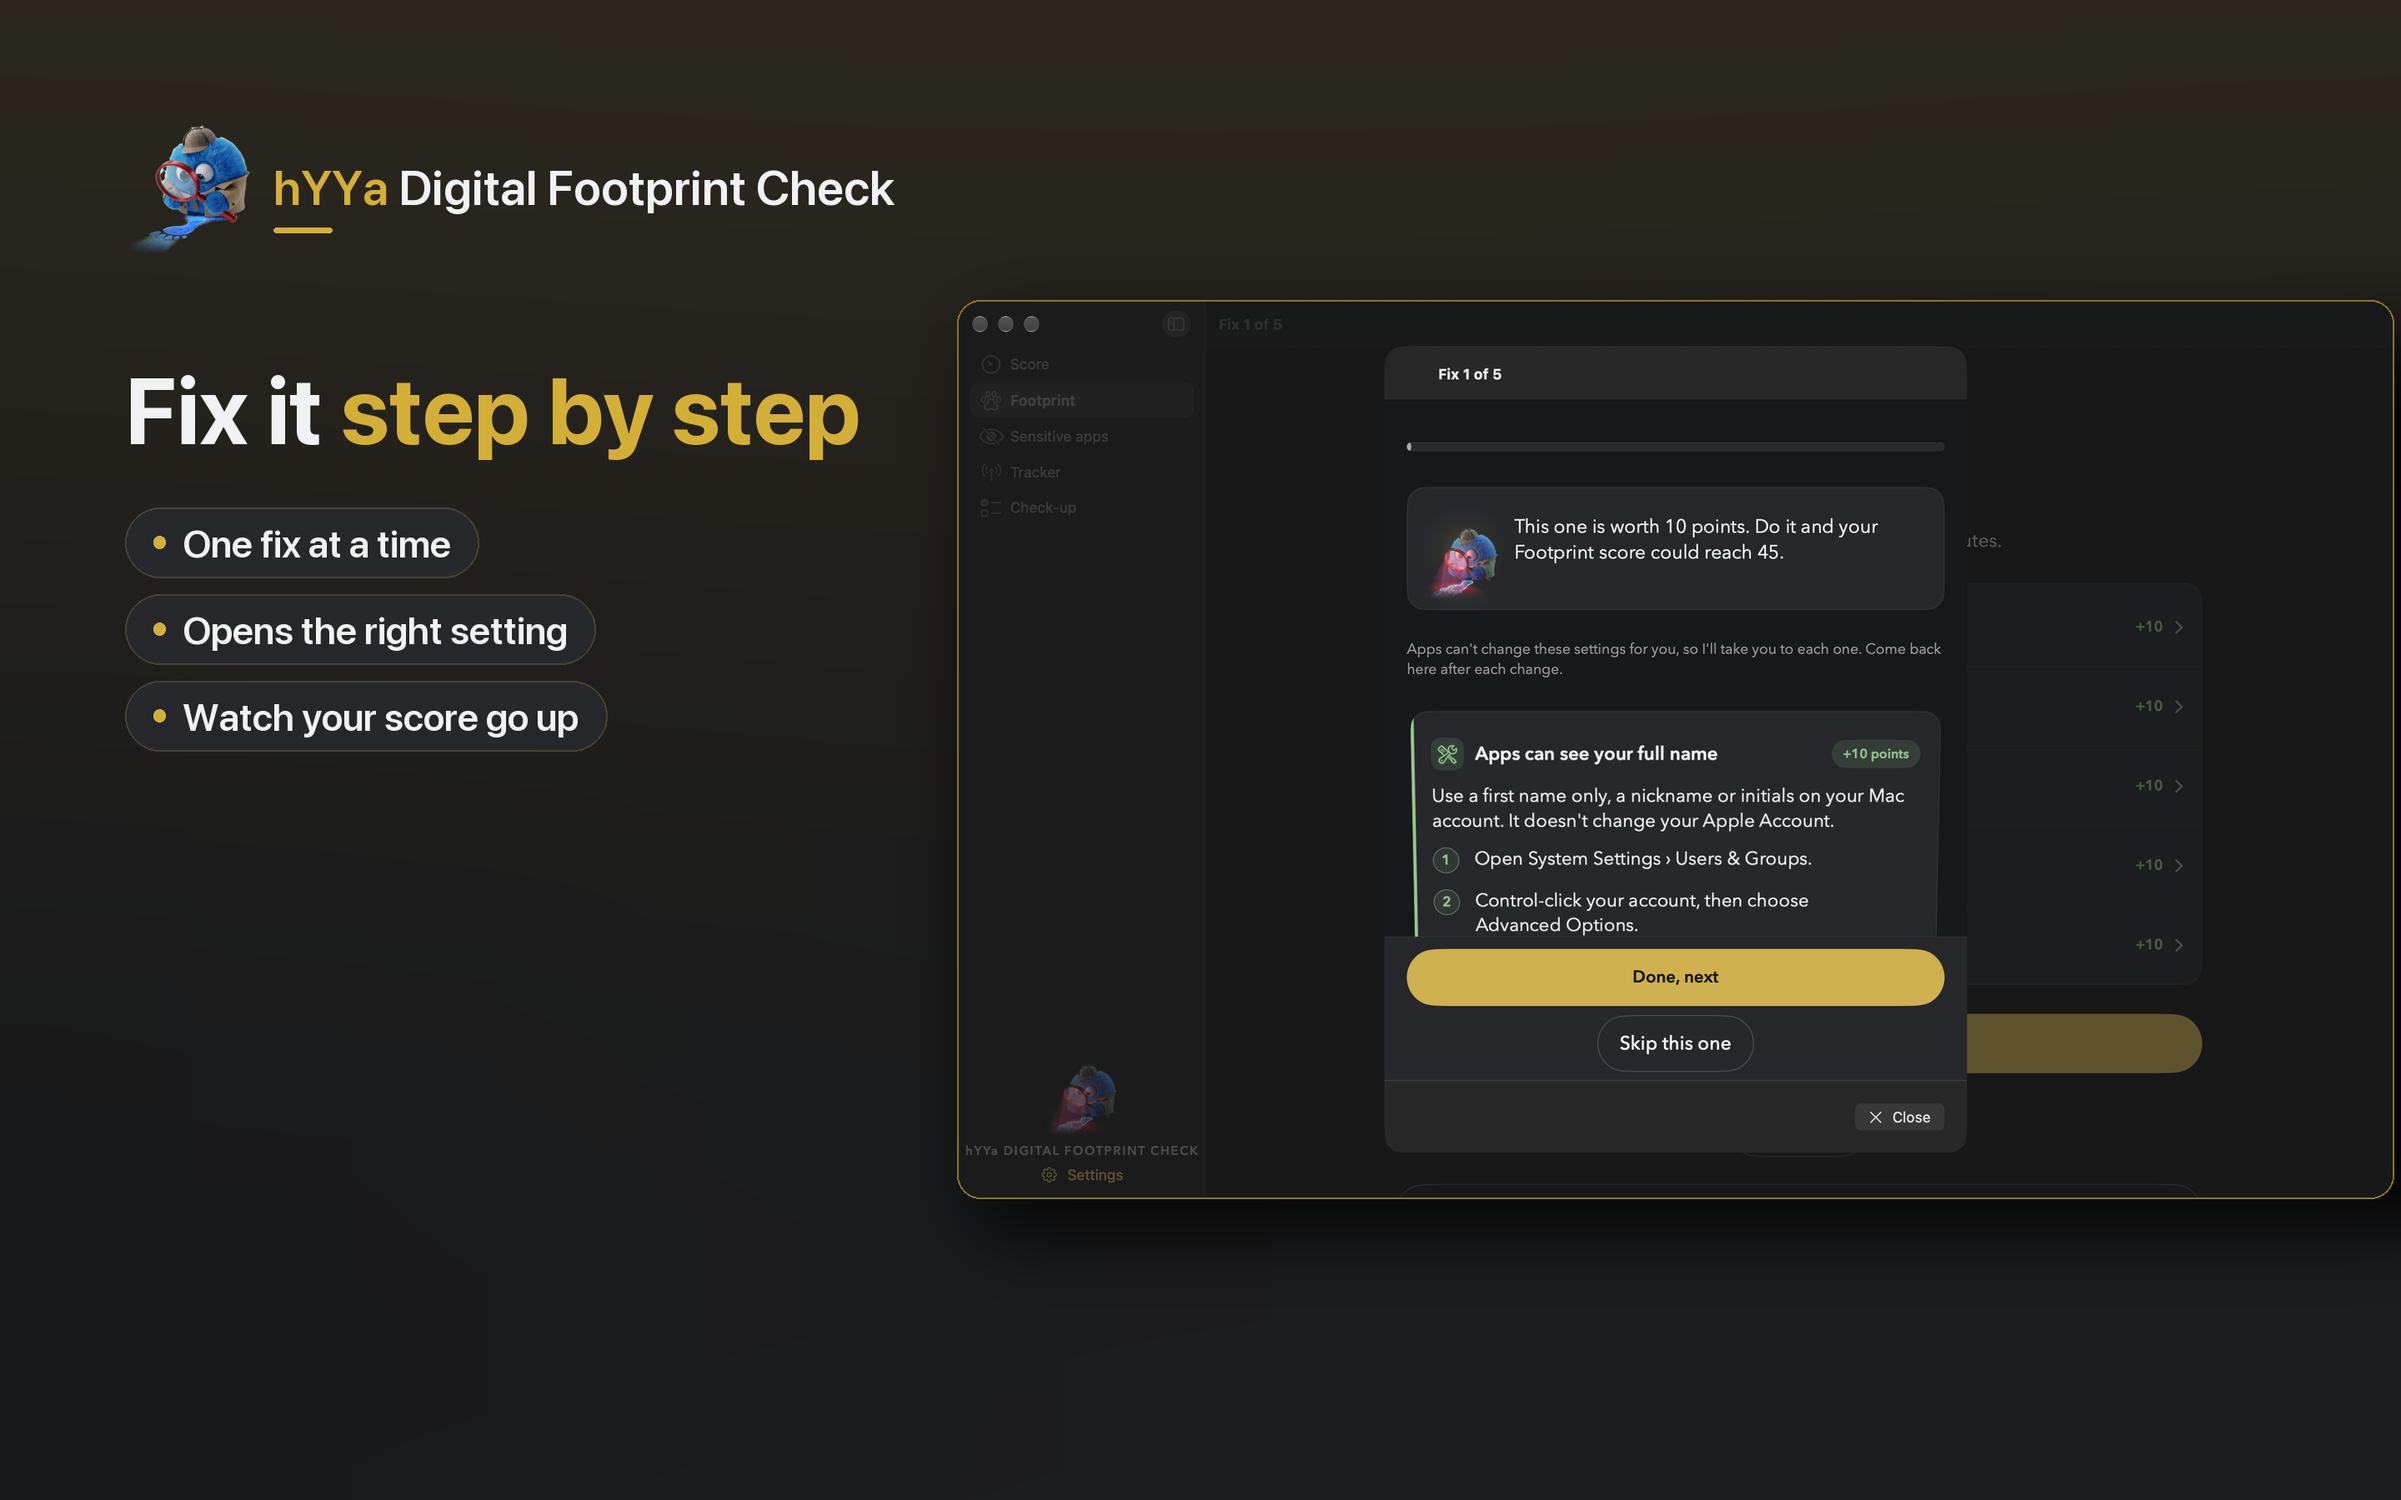
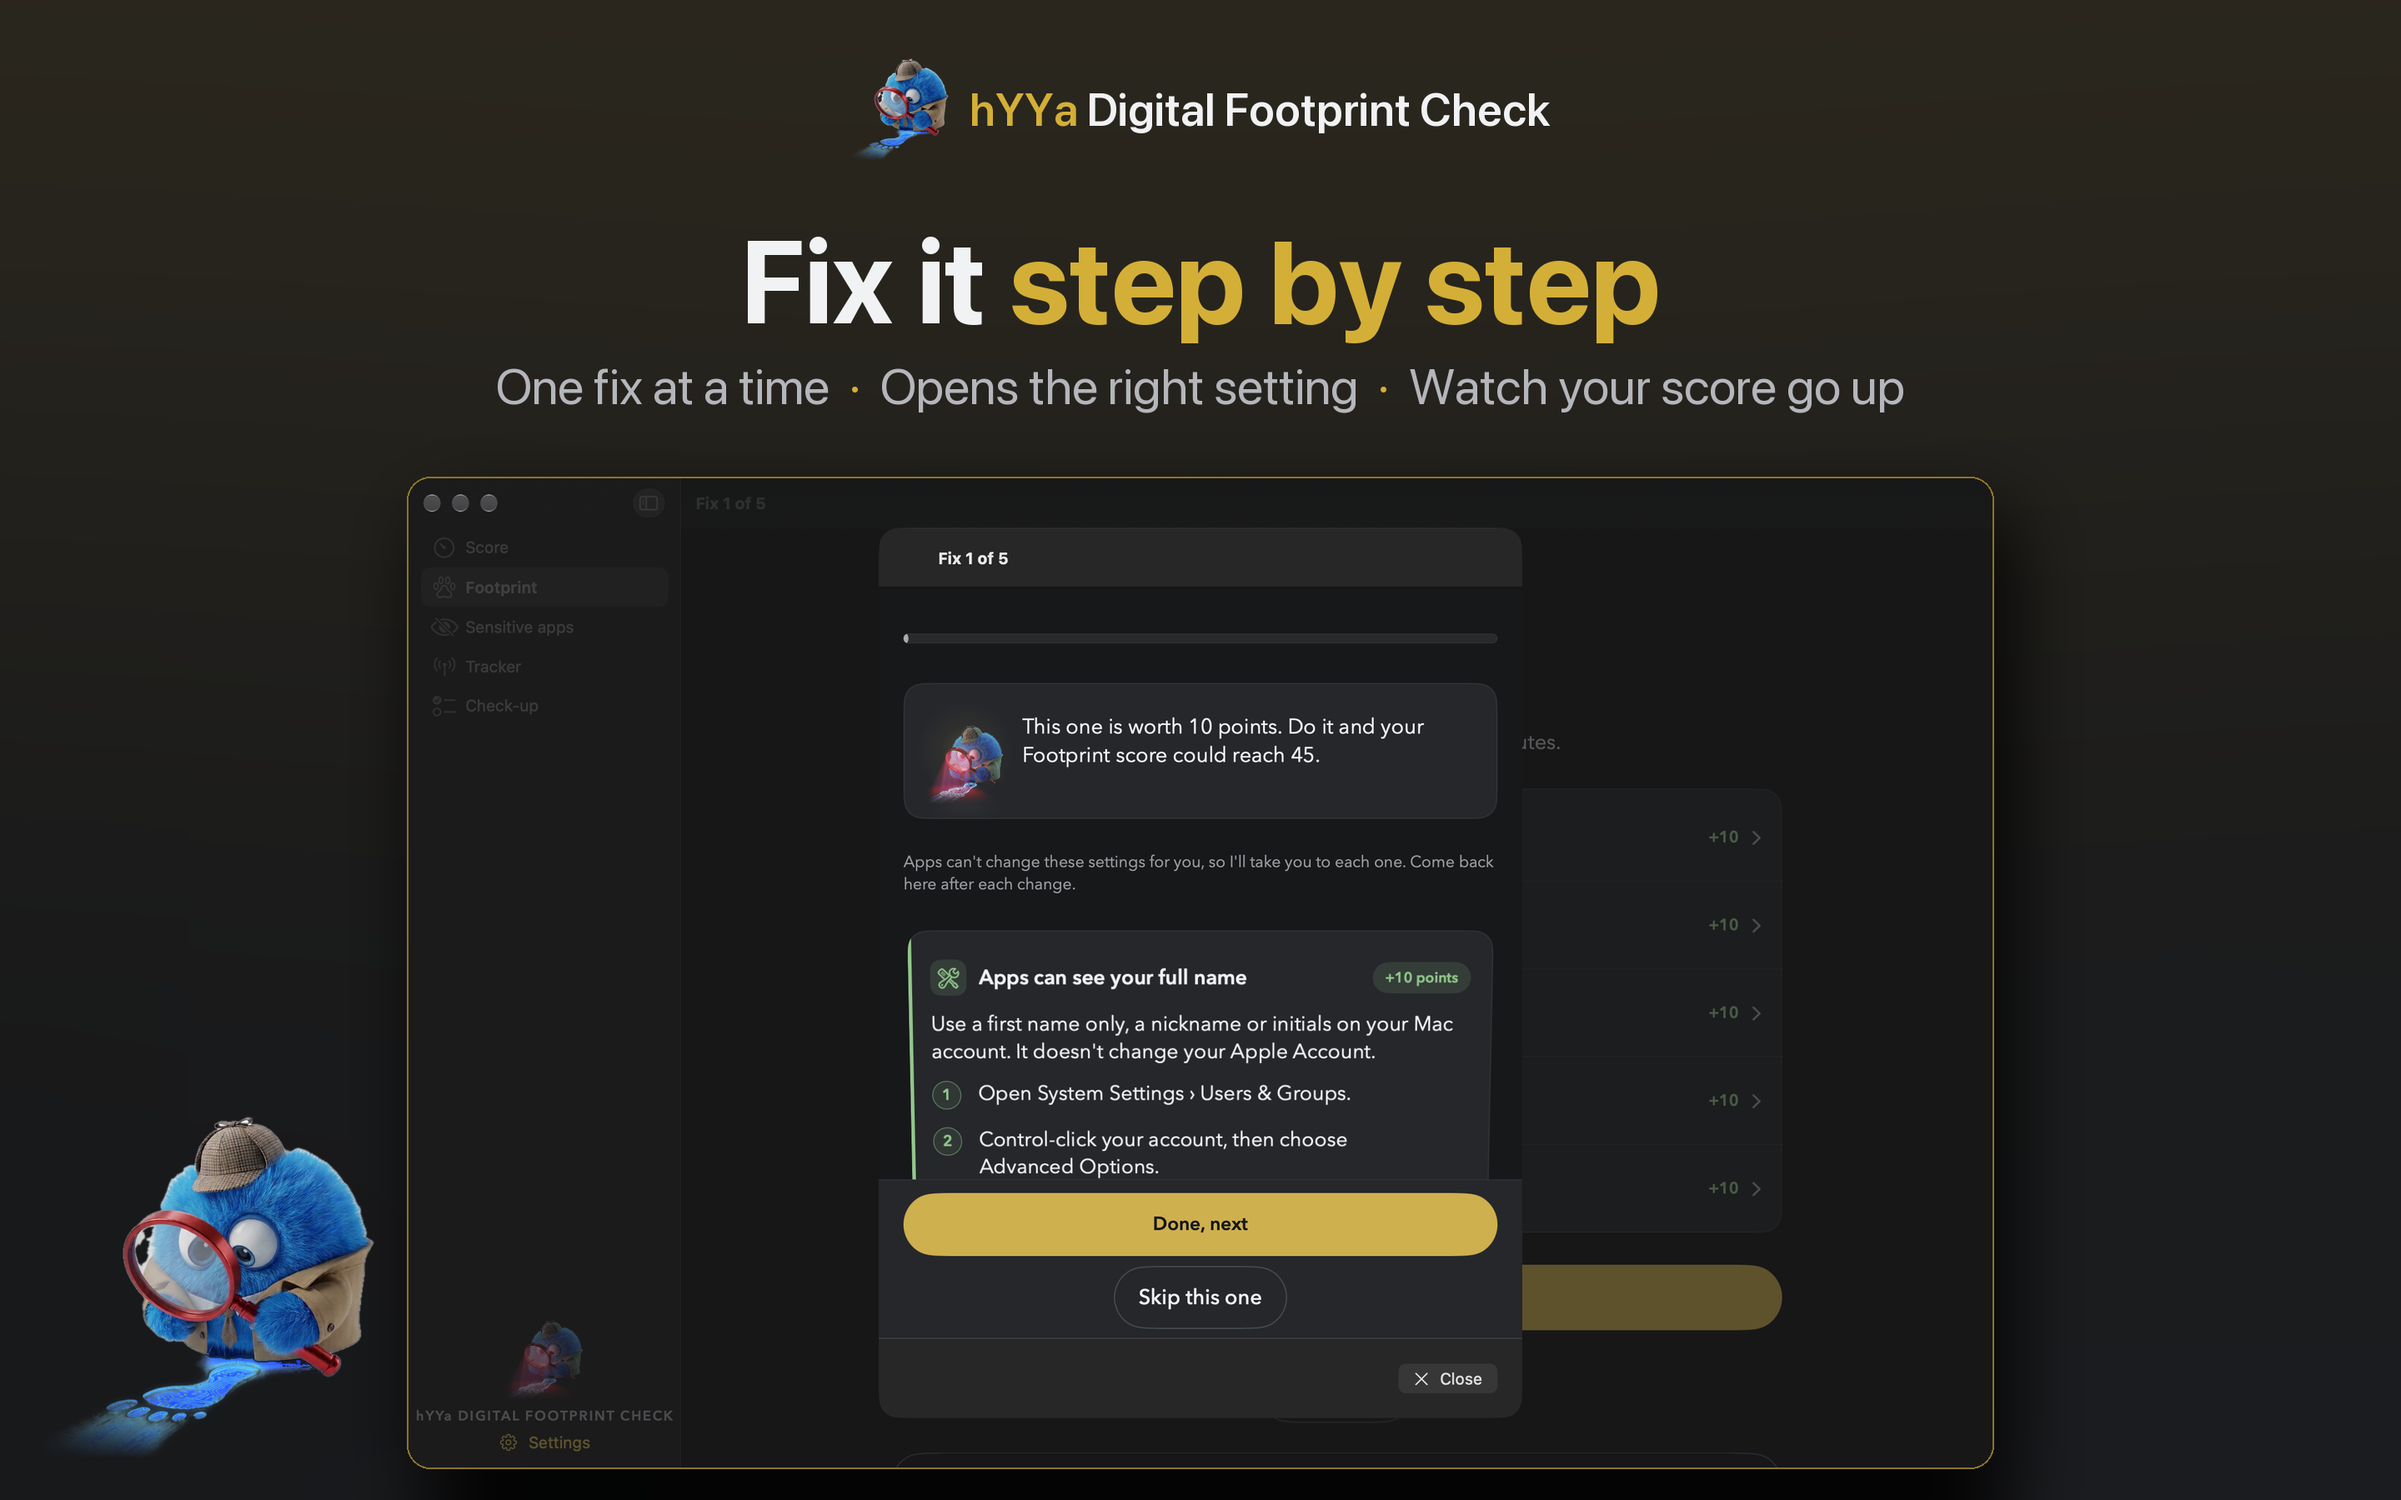
Store slides: iPhone, iPad and Mac in the centred style approved for the Duo (name centred, big headline, one subtitle line, large device, mascot beside it); fresh build-48 captures

diff --git a/scripts/make-store-slides.py b/scripts/make-store-slides.py
@@ -105,6 +105,76 @@ def draw_headline(d, text, x, y, max_w, size):
     return y + len(lines) * line_h
 
 
+def centred_lines(d, parts, y, max_w, size, weight, canvas_w, gap=1.15, break_at=None):
+    """Centred text of (text, colour) parts, wrapped by word (or only at the parts named in break_at, such as
+    the dots between highlights). Returns the y below the last line."""
+    f = font(size, weight)
+    tokens = []
+    for text, colour in parts:
+        if break_at is not None:
+            tokens.append((text, colour, text in break_at))
+        else:
+            tokens += [(word, colour, True) for word in text.split(" ") if word]
+    lines, cur, cur_w = [], [], 0
+    if break_at is None:
+        space = d.textlength(" ", font=f)
+        for word, colour, _ in tokens:
+            wl = d.textlength(word, font=f)
+            if cur and cur_w + space + wl > max_w:
+                lines.append(cur); cur, cur_w = [], 0
+            cur.append((word + " ", colour)); cur_w += (space if cur_w else 0) + wl
+    else:
+        for text, colour, is_break in tokens:
+            wl = d.textlength(text, font=f)
+            if is_break and cur and cur_w + wl > max_w:   # never start a line with the dot
+                lines.append(cur); cur, cur_w = [], 0
+                continue
+            if cur_w + wl > max_w and cur and not is_break:
+                lines.append(cur); cur, cur_w = [], 0
+            cur.append((text, colour)); cur_w += wl
+    if cur:
+        lines.append(cur)
+    line_h = int(size * gap)
+    for i, line in enumerate(lines):
+        line = [(t.rstrip() if j == len(line) - 1 else t, c) for j, (t, c) in enumerate(line)]
+        w = sum(d.textlength(t, font=f) for t, _ in line)
+        x = (canvas_w - w) / 2
+        for t, colour in line:
+            d.text((x, y + i * line_h), t, font=f, fill=colour)
+            x += d.textlength(t, font=f)
+    return y + len(lines) * line_h
+
+
+def headline_parts(text):
+    """*starred* words are gold."""
+    return [(p.strip("*"), SAND if p.startswith("*") else INK) for p in re.split(r"(\*[^*]+\*)", text) if p]
+
+
+DOT = "  \u00b7  "
+
+
+def highlight_parts(items):
+    out = []
+    for i, h in enumerate(items):
+        if i:
+            out.append((DOT, SAND))
+        out.append((h, MUTED))
+    return out
+
+
+def name_lockup(canvas, d, mascot, cx, top, size):
+    """The small mascot and the full name, centred on cx."""
+    m = mascot.resize((int(size * 2.2), int(size * 2.2 * mascot.height / mascot.width)), Image.LANCZOS)
+    f = font(size, "Semibold")
+    name_w = d.textlength("hYYa Digital Footprint Check", font=f)
+    x0 = cx - (m.width + size * 0.45 + name_w) / 2
+    canvas.alpha_composite(m, (int(x0), int(top)))
+    nx, ny = x0 + m.width + size * 0.45, top + m.height / 2 - size * 0.62
+    d.text((nx, ny), "hYYa", font=f, fill=SAND)
+    d.text((nx + d.textlength("hYYa ", font=f), ny), "Digital Footprint Check", font=f, fill=INK)
+    return top + m.height
+
+
 def chips(d, items, x, y, max_w, size):
     f = font(size, "Semibold")
     pad_x, pad_y, gap = int(size * 0.75), int(size * 0.42), int(size * 0.45)
@@ -122,7 +192,36 @@ def chips(d, items, x, y, max_w, size):
     return cy + h
 
 
+def make_centred_slide(spec, raw_dir, w, h, mascot):
+    """App Store iPhone and iPad (owner, 2026-11-23, hYYa Encrypted Notes' slides as the model): the name centred
+    at the top, one big centred headline, the highlights as one line under it, the device large and centred running
+    off the bottom, the mascot standing at its lower left."""
+    canvas = glow_background(w, h).convert("RGBA")
+    d = ImageDraw.Draw(canvas)
+    unit = w / 1320
+    tablet = w / h > 0.6
+    y = name_lockup(canvas, d, mascot, w / 2, int(90 * unit), int((40 if tablet else 50) * unit))
+    y = centred_lines(d, headline_parts(spec["headline"]), y + int(50 * unit), w * 0.88, int((84 if tablet else 112) * unit), "Bold", w, 1.1)
+    y = centred_lines(d, highlight_parts(spec["highlights"]), y + int(22 * unit), w * 0.9, int((40 if tablet else 46) * unit), "Regular", w, 1.35,
+                      break_at={DOT})
+    dev_w = int(w * (0.74 if tablet else 0.68))
+    frame = device(Image.open(raw_dir / f"{spec['screen']}.png"), dev_w)
+    dev_y = max(y + int(60 * unit), int(h * (0.315 if tablet else 0.27)))   # the same height on every slide of a set
+    dev_x = (w - frame.width) // 2
+    shadow = Image.new("RGBA", canvas.size, (0, 0, 0, 0))
+    ImageDraw.Draw(shadow).rounded_rectangle((dev_x + 20, dev_y + 40, dev_x + frame.width + 20, dev_y + frame.height + 40), 80, fill=(0, 0, 0, 200))
+    canvas.alpha_composite(shadow.filter(ImageFilter.GaussianBlur(40)))
+    canvas.alpha_composite(frame, (dev_x, dev_y))
+    # Beside the device, touching only its frame: never over words on the screen.
+    big_w = int(w * (0.16 if tablet else 0.22))
+    big = mascot.resize((big_w, int(big_w * mascot.height / mascot.width)), Image.LANCZOS)
+    canvas.alpha_composite(big, (dev_x - int(big_w * 0.82), h - big.height - int(20 * unit)))
+    return canvas.convert("RGB")
+
+
 def make_slide(spec, raw_dir, w, h, mascot):
+    if not OPEN_FONT:
+        return make_centred_slide(spec, raw_dir, w, h, mascot)
     canvas = glow_background(w, h).convert("RGBA")
     d = ImageDraw.Draw(canvas)
     margin = int(w * 0.075)

diff --git a/scripts/make-mac-slides.py b/scripts/make-mac-slides.py
@@ -28,29 +28,27 @@ def rounded(im, r):
 
 
 def make(spec_slide, raw, mascot):
+    """Owner, 2026-11-23 (hYYa Encrypted Notes' slides as the model; same layout as the Duo set): the name centred at
+    the top, one big centred headline, the highlights as one line under it, the real window large and centred
+    running off the bottom, the mascot standing beside it."""
     c = slides.glow_background(W, H).convert("RGBA")
     d = ImageDraw.Draw(c)
-    left = 150
-    m = mascot.resize((150, int(150 * mascot.height / mascot.width)), Image.LANCZOS)
-    c.alpha_composite(m, (left, 150))
-    f = slides.font(58, "Semibold")
-    nx, ny = left + m.width + 28, 150 + m.height // 2 - 38
-    d.text((nx, ny), "hYYa", font=f, fill=slides.SAND)
-    d.text((nx + d.textlength("hYYa ", font=f), ny), "Digital Footprint Check", font=f, fill=slides.INK)
-    d.rounded_rectangle((nx, ny + 84, nx + 70, ny + 90), 3, fill=slides.SAND)
-    y = slides.draw_headline(d, spec_slide["headline"], left, 150 + m.height + 120, 900, 112)
-    slides.chips(d, spec_slide["highlights"], left, y + 60, 900, 46)
-
+    y = slides.name_lockup(c, d, mascot, W / 2, 70, 54)
+    y = slides.centred_lines(d, slides.headline_parts(spec_slide["headline"]), y + 60, W - 300, 140, "Bold", W, 1.1)
+    y = slides.centred_lines(d, slides.highlight_parts(spec_slide["highlights"]), y + 20, W - 400, 60, "Regular", W, 1.3,
+                             break_at={slides.DOT})
     win = Image.open(raw / f"{spec_slide['screen']}.png").convert("RGB")
-    ww = 1720
+    ww = 1900
     win = win.resize((ww, int(win.height * ww / win.width)), Image.LANCZOS)
     win = rounded(win, 26)
-    x, wy = 1150, (H - win.height) // 2
+    x, wy = (W - ww) // 2, y + 70
     shadow = Image.new("RGBA", c.size, (0, 0, 0, 0))
     ImageDraw.Draw(shadow).rounded_rectangle((x + 20, wy + 40, x + win.width + 20, wy + win.height + 40), 30, fill=(0, 0, 0, 220))
     c.alpha_composite(shadow.filter(ImageFilter.GaussianBlur(45)))
     ImageDraw.Draw(c).rounded_rectangle((x - 2, wy - 2, x + win.width + 1, wy + win.height + 1), 28, outline=slides.SAND_DEEP + (255,), width=2)
     c.alpha_composite(win, (x, wy))
+    big = mascot.resize((400, int(400 * mascot.height / mascot.width)), Image.LANCZOS)
+    c.alpha_composite(big, (50, H - big.height - 50))
     return c.convert("RGB")
 
 
